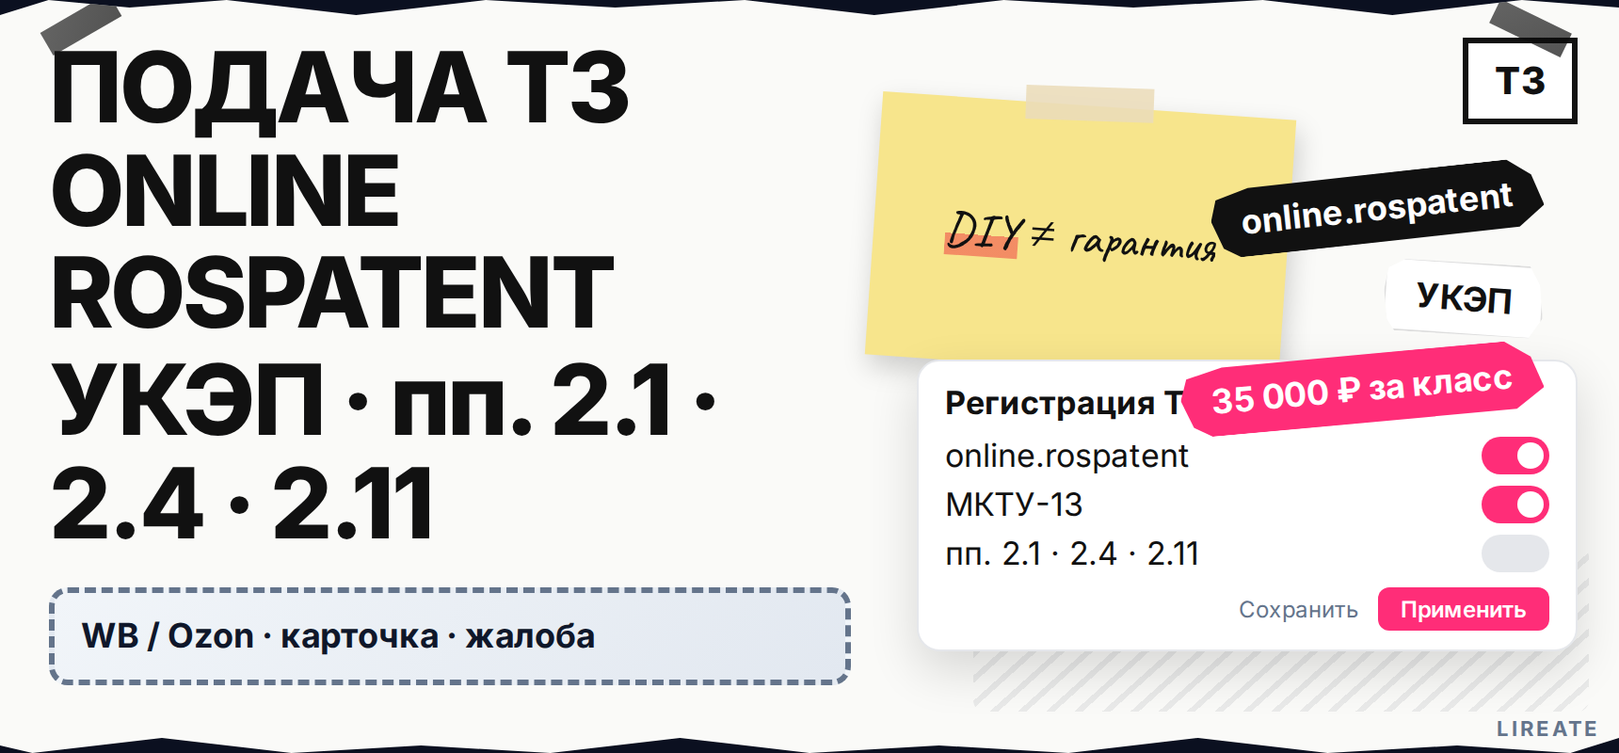
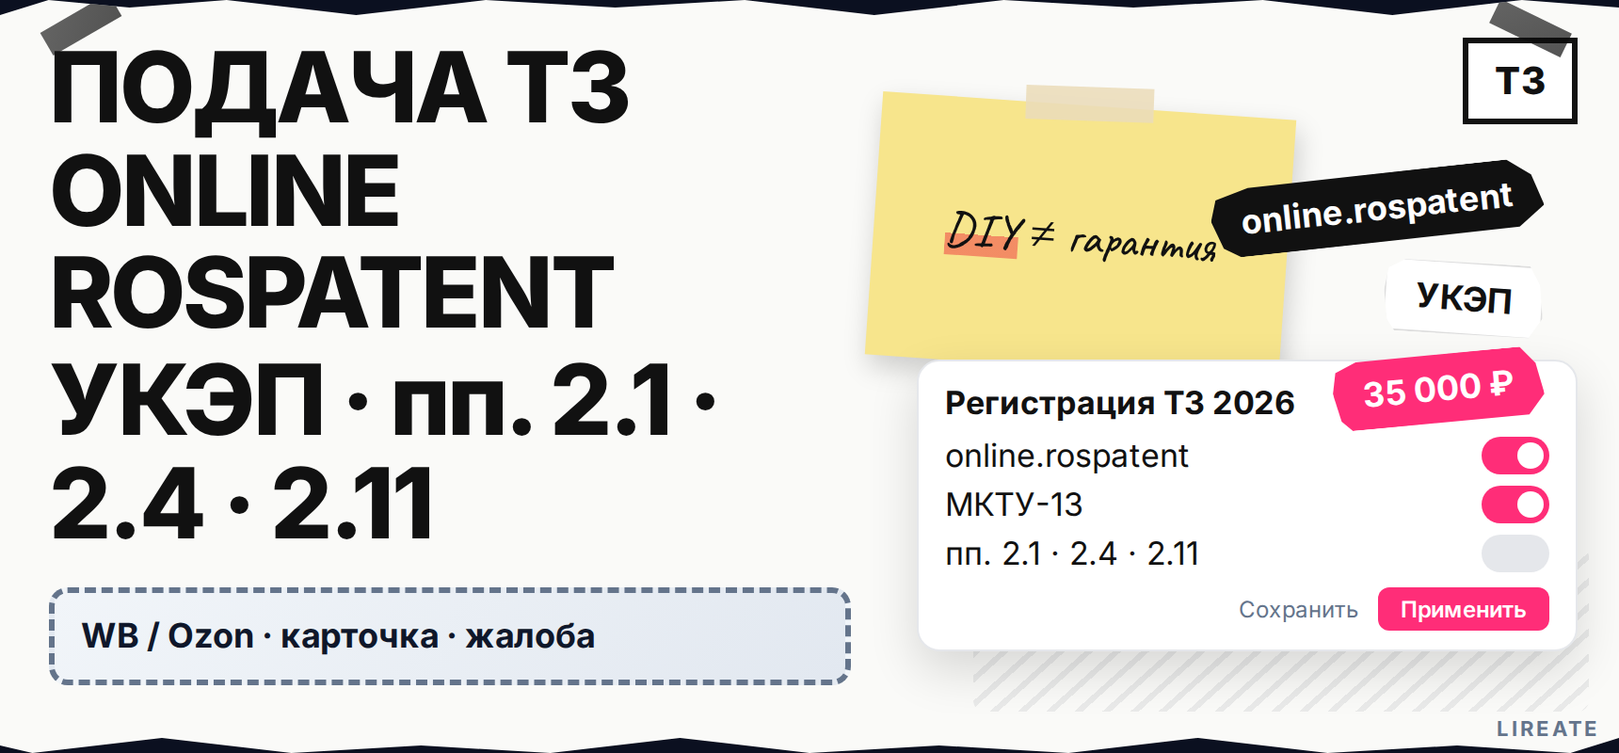
fix(blog): scrub Lxx from meta, grammar on internal links, L30 cover chip
Remove visible Lxx codes from article.meta.json SEO fields and cover copy.
Reword sentences broken by mechanical anchor replacement across PR #97 articles.
Shorten L30 cover chip to «35 000 ₽» and re-render collage variants.

Changed region(s): [[0.7087, 0.4375, 0.9552, 0.5938]]

diff --git a/memory/blog/articles/L28-obrashchenie-tretiego-litsa-po-zayavke-tovarnyy-znak-st-1493/article.html b/memory/blog/articles/L28-obrashchenie-tretiego-litsa-po-zayavke-tovarnyy-znak-st-1493/article.html
@@ -7,7 +7,7 @@
 
 <blockquote><b>TL;DR / Быстрый инсайт:</b> Запрос <b>возражение на заявку на товарный знак</b> в быту чаще означает <b>обращение по ст. 1493</b>, а не возражение в Палате по патентным спорам. <b>После публикации</b> сведений о заявке в официальном бюллетене и <b>до решения о регистрации</b> подать его может <b>любое лицо</b> (<a href="https://www.consultant.ru/document/cons_doc_LAW_64629/da1d238252af35623ade3d61ef2cd110c632dd5f/" target="_blank">ст. 1493 ГК РФ</a>). В тексте обязателен <b>регистрационный номер заявки</b> и мотивированные доводы о несоответствии обозначения <b>ст. 1477 и 1483</b> с доказательствами (<a href="https://www.consultant.ru/document/cons_doc_LAW_184868/354796ff2127929e8ba2ec52fa49605433f56508/" target="_blank">п. 50 Правил № 482</a>). Доводы <b>учитываются при экспертизе</b> (<a href="https://www.consultant.ru/document/cons_doc_LAW_64629/42114f8819a5a871c211331ca2b2d5ae1ebda818/" target="_blank">ст. 1499</a>); отдельной пошлины за обращение в <a href="https://www.klerk.ru/blogs/patent24/683176/" target="_blank">таблице пошлин</a> (п. 2.28.4 — только для ППС) нет. Срока "3 месяца" в ГК для 1493 <b>нет</b>.</blockquote>
 
-<p>Гайд только для стадии <b>до выдачи свидетельства</b>. Если знак уже зарегистрирован, окно 1493 закрыто - см. <a href="/vozrazhenie_protiv_registracii_chuzhogo_tovarnogo_znaka_sroki_i_poryadok">возражение против регистрации чужого ТЗ </a> и карту процедур в <a href="/osparivanie_tovarnogo_znaka_v_rospatente_kak_podat_vozrazhenie">оспаривании в Роспатенте </a>. Нормы сверены на 02.11.2026; это не индивидуальная юридическая консультация.</p>
+<p>Гайд только для стадии <b>до выдачи свидетельства</b>. Если знак уже зарегистрирован, окно 1493 закрыто — см. <a href="/vozrazhenie_protiv_registracii_chuzhogo_tovarnogo_znaka_sroki_i_poryadok">гайд по возражению против регистрации чужого ТЗ</a> и карту процедур в <a href="/osparivanie_tovarnogo_znaka_v_rospatente_kak_podat_vozrazhenie">материале об оспаривании в Роспатенте</a>. Нормы сверены на 02.11.2026; это не индивидуальная юридическая консультация.</p>
 
 <h2>Отличите обращение по ст. 1493 от возражения после регистрации</h2>
 <figure class="inline-collage" data-inline-style="collage-v1" data-template="bad_good" data-slot="inline_1">
@@ -50,7 +50,7 @@
   </tbody>
 </table>
 
-<p><b>Делайте:</b> проверить в реестре, есть ли уже <b>свидетельство</b> или только заявка. <b>Не делайте:</b> платить пошлину 2.28.4 и ждать заседания, если спор ещё на стадии заявки - это другой маршрут (<a href="/vozrazhenie_protiv_registracii_chuzhogo_tovarnogo_znaka_sroki_i_poryadok">возражение против чужого знака</a>).</p>
+<p><b>Делайте:</b> проверить в реестре, есть ли уже <b>свидетельство</b> или только заявка. <b>Не делайте:</b> платить пошлину 2.28.4 и ждать заседания, если спор ещё на стадии заявки - это другой маршрут — см. <a href="/vozrazhenie_protiv_registracii_chuzhogo_tovarnogo_znaka_sroki_i_poryadok">гайд по возражению против чужого знака</a>.</p>
 
 <h2>Проверьте окно подачи: публикация в бюллетене и статус заявки</h2>
 <figure class="inline-collage" data-inline-style="collage-v1" data-template="checklist" data-slot="inline_2">
@@ -126,7 +126,7 @@
   <li>нужны последствия ППС: <b>аннулирование</b> или ограничение охраны с заседанием и пошлиной <b>2.28.4</b>.</li>
 </ul>
 
-<p>После регистрации по ряду оснований действует срок <b>5 лет</b> с публикации регистрации (<a href="https://www.consultant.ru/document/cons_doc_LAW_64629/fab3ae79219dd5f5d60cb4ff67c6d9832f67bedf/" target="_blank">ст. 1512 п. 2</a>). Детали - <a href="/vozrazhenie_protiv_registracii_chuzhogo_tovarnogo_znaka_sroki_i_poryadok">возражение против чужого знака</a>, карта - <a href="/osparivanie_tovarnogo_znaka_v_rospatente_kak_podat_vozrazhenie">карта оспаривания в Роспатенте</a>.</p>
+<p>После регистрации по ряду оснований действует срок <b>5 лет</b> с публикации регистрации (<a href="https://www.consultant.ru/document/cons_doc_LAW_64629/fab3ae79219dd5f5d60cb4ff67c6d9832f67bedf/" target="_blank">ст. 1512 п. 2</a>). Детали — в <a href="/vozrazhenie_protiv_registracii_chuzhogo_tovarnogo_znaka_sroki_i_poryadok">гайде по возражению против чужого знака</a>, карта процедур — в <a href="/osparivanie_tovarnogo_znaka_v_rospatente_kak_podat_vozrazhenie">материале об оспаривании в Роспатенте</a>.</p>
 
 <p><b>Делайте:</b> оценить силу доказательств: слабый пакет на 1493 иногда лучше усилить к моменту ППС с патентным поверенным. <b>Не делайте:</b> повторно слать тот же текст "как 1493" после регистрации - нужно возражение по <a href="https://www.consultant.ru/document/cons_doc_LAW_64629/fab3ae79219dd5f5d60cb4ff67c6d9832f67bedf/" target="_blank">1512-1513</a>.</p>
 
@@ -154,7 +154,7 @@
 <p>В <b>Роспатент</b> (Бережковская наб., 30-1; почта 125993, Г-59, ГСП-3) - это <b>обращение по ст. 1493</b>, а не подача в ППС. Каналы: почта, окно, факс с оригиналом, сайт ФИПС, ЕПГУ (<a href="https://www.consultant.ru/document/cons_doc_LAW_184868/354796ff2127929e8ba2ec52fa49605433f56508/" target="_blank">п. 9 Правил № 482</a>, <a href="https://www.gosuslugi.ru/" target="_blank">ЕПГУ</a>).</p>
 
 <h3>Нужна ли госпошлина за обращение по ст. 1493?</h3>
-<p>Отдельного пункта в <a href="https://www.klerk.ru/blogs/patent24/683176/" target="_blank">таблице пошлин</a> за такое обращение нет. <b>14 000 ₽</b> по <b>2.28.4</b> - за возражение против <b>уже зарегистрированного</b> знака (см. <a href="/vozrazhenie_protiv_registracii_chuzhogo_tovarnogo_znaka_sroki_i_poryadok">возражение против чужого знака</a>).</p>
+<p>Отдельного пункта в <a href="https://www.klerk.ru/blogs/patent24/683176/" target="_blank">таблице пошлин</a> за такое обращение нет. <b>14 000 ₽</b> по <b>2.28.4</b> - за возражение против <b>уже зарегистрированного</b> знака (см. <a href="/vozrazhenie_protiv_registracii_chuzhogo_tovarnogo_znaka_sroki_i_poryadok">гайд по возражению против чужого знака</a>).</p>
 
 <h3>Кто может подать - только заинтересованное лицо?</h3>
 <p>По <b>ст. 1493</b> - <b>любое лицо</b> после публикации заявки в бюллетене. Статус заинтересованного лица важен для части оснований <b>после регистрации</b> (<a href="https://www.consultant.ru/document/cons_doc_LAW_64629/65a4af0cccfa200fb361da6e731356a369a0ed8e/" target="_blank">ст. 1513</a>).</p>
@@ -166,7 +166,7 @@
 <p>Обязанности вести переписку нет: доводы <b>учитываются при экспертизе</b> (<a href="https://www.consultant.ru/document/cons_doc_LAW_64629/42114f8819a5a871c211331ca2b2d5ae1ebda818/" target="_blank">ст. 1499</a>). Итог увидите в статусе заявки и решении о регистрации или отказе.</p>
 
 <h3>Можно ли после регистрации отправить тот же текст?</h3>
-<p>Нет. Окно 1493 закрыто - подавайте <b>возражение по ст. 1512-1513</b> с пошлиной 2.28.4 и процедурой ППС; порядок - в <a href="/vozrazhenie_protiv_registracii_chuzhogo_tovarnogo_znaka_sroki_i_poryadok">возражение против чужого знака</a>, карта - в <a href="/osparivanie_tovarnogo_znaka_v_rospatente_kak_podat_vozrazhenie">карта оспаривания в Роспатенте</a>.</p>
+<p>Нет. Окно 1493 закрыто - подавайте <b>возражение по ст. 1512-1513</b> с пошлиной 2.28.4 и процедурой ППС; порядок подачи — в <a href="/vozrazhenie_protiv_registracii_chuzhogo_tovarnogo_znaka_sroki_i_poryadok">гайде по возражению против чужого знака</a>, карта процедур — в <a href="/osparivanie_tovarnogo_znaka_v_rospatente_kak_podat_vozrazhenie">материале об оспаривании в Роспатенте</a>.</p>
 
 <h3>Чем обращение по ст. 1493 отличается от возражения в ППС?</h3>
 <p>Обращение по <b>ст. 1493</b> — только на стадии заявки; <a href="/vozrazhenie_protiv_registracii_chuzhogo_tovarnogo_znaka_sroki_i_poryadok">возражение против чужого знака</a> — обе процедуры, ППС, пошлина и срок 5 лет.</p>

diff --git a/memory/blog/articles/L43-vozrazhenie-protiv-vydachi-patenta-konkurentu/article.html b/memory/blog/articles/L43-vozrazhenie-protiv-vydachi-patenta-konkurentu/article.html
@@ -1,4 +1,4 @@
-<p>Заявка конкурента перекрывает вашу нишу устройств, а в поиске вам сулят "оппозицию на 6 месяцев". В России у третьего лица два пути: <b>замечания</b> по опубликованной заявке до решения Роспатента и <b>возражение</b> в <b>ППС</b> (Палата по патентным спорам - внутренний орган Роспатента, который разбирает споры по патентам), если номер патента уже в реестре. Вы выберете ветку, соберёте уровень техники и не перепутаете сценарий с отказом <b>вам</b> (<a href="/news?num=2&category=20">отказ в выдаче патента</a>) или с <b>товарным знаком</b> (<a href="/news?num=2&category=9">оспаривание товарного знака</a>).</p>
+<p>Заявка конкурента перекрывает вашу нишу устройств, а в поиске вам сулят "оппозицию на 6 месяцев". В России у третьего лица два пути: <b>замечания</b> по опубликованной заявке до решения Роспатента и <b>возражение</b> в <b>ППС</b> (Палата по патентным спорам - внутренний орган Роспатента, который разбирает споры по патентам), если номер патента уже в реестре. Вы выберете ветку, соберёте уровень техники и не перепутаете сценарий с отказом <b>вам</b> (см. <a href="/otkazali-v-vydache-patenta-chto-delat">статью об отказе в выдаче патента</a>) или с <b>товарным знаком</b> (см. <a href="/osparivanie_tovarnogo_znaka_v_rospatente_kak_podat_vozrazhenie">материал об оспаривании товарного знака</a>).</p>
 
 <figure class="lx-article-cover" data-cover-style="collage-v1">
   <img src="cover/cover.png" alt="Возражение против выдачи патента конкуренту: заявка, сроки и Палата по патентным спорам" loading="eager" width="860" height="400">
@@ -6,7 +6,7 @@
 
 <blockquote><b>TL;DR / Быстрый инсайт:</b> Заявка публикуется примерно через <b>18 месяцев</b> (<a href="https://www.consultant.ru/document/cons_doc_LAW_64629/5165407c76b4c777c440202b6de4a21821c2095f/" target="_blank">ст. 1385</a>). До решения по заявке любое лицо может подать <b>замечания</b> о несоответствии <a href="https://www.consultant.ru/document/cons_doc_LAW_64629/4b30fa7ca4e5733597a1bc9b2b12351cc5c430e6/" target="_blank">ст. 1350</a> (<a href="https://www.consultant.ru/document/cons_doc_LAW_64629/2ea7c0702823314f4e4d04bd1e8db5ccf4b695f6/" target="_blank">абз. после п. 5 ст. 1386</a>) без пошлины п. 1.27.3. После выдачи - <b>возражение</b> в ППС (<a href="https://www.consultant.ru/document/cons_doc_LAW_64629/d64961e488e2fc6119b55f68178ea9051a94353f/" target="_blank">ст. 1398</a>, <a href="https://patent-family.ru/journal/patenty/palata-po-patentnym-sporam/" target="_blank">п. 3.2.1</a>): <b>7 000 руб.</b> за независимый пункт, коллегия. "6 месяцев для конкурента" в РФ нет - это срок <b>ответа заявителя</b> по <a href="https://www.consultant.ru/document/cons_doc_LAW_64629/574e802022e9f2f17a7365ee06e6e2192d73516b/" target="_blank">ст. 1387</a>.</blockquote>
 
-<p>Материал для производителя и владельца продукта на Лирейт: только патент на изобретение, полезную модель или промобразец, не ПСН и не миграционный патент. Нормы на 10.11.2026; не индивидуальная консультация. Стратегию своей защиты см. в <a href="/news?num=2&category=20">способы защиты изобретения</a>.</p>
+<p>Материал для производителя и владельца продукта на Лирейт: только патент на изобретение, полезную модель или промобразец, не ПСН и не миграционный патент. Нормы на 10.11.2026; не индивидуальная консультация. Стратегию своей защиты см. в <a href="/sposoby-zashchity-izobreteniya">материале о способах защиты изобретения</a>.</p>
 
 <h2>Определите стадию: заявка или действующий патент</h2>
 <figure class="inline-collage" data-inline-style="collage-v1" data-template="bad_good" data-slot="inline_1">
@@ -133,12 +133,12 @@
     <tr>
       <td>Отказ <b>вам</b></td>
       <td>3 000 руб. × пункт (п. 1.27.1)</td>
-      <td><a href="/news?num=2&category=20">отказ в выдаче патента</a></td>
+      <td><a href="/otkazali-v-vydache-patenta-chto-delat">отказ в выдаче патента</a></td>
     </tr>
     <tr>
       <td>Чужой товарный знак</td>
       <td>14 000 руб. (п. 2.28.4)</td>
-      <td><a href="/news?num=2&category=9">оспаривание товарного знака</a></td>
+      <td><a href="/osparivanie_tovarnogo_znaka_v_rospatente_kak_podat_vozrazhenie">оспаривание товарного знака</a></td>
     </tr>
   </tbody>
 </table>
@@ -169,7 +169,7 @@
 
 <h2>Действуйте после отказа ППС или поздней выдачи</h2>
 
-<p>Если замечания не остановили выдачу - сразу переходите на ветку ППС, не теряя месяцы на переписку с конкурентом. Если коллегия отказала, оцените суд по <a href="https://www.consultant.ru/document/cons_doc_LAW_64629/d2dcd2977e647a08c6f2a264994c10c8b51bee1a/" target="_blank">ст. 1248</a> и инструменты после решения: таможенный контур для ввоза аналогов разобран в <a href="/news?num=2&category=20">таможенный запрет ввоза аналога</a>. Параллельно рассматривайте лицензию, изменение конструкции без нарушения формулы и собственную заявку на улучшение - сравнение режимов в <a href="/news?num=2&category=20">способы защиты изобретения</a>.</p>
+<p>Если замечания не остановили выдачу - сразу переходите на ветку ППС, не теряя месяцы на переписку с конкурентом. Если коллегия отказала, оцените суд по <a href="https://www.consultant.ru/document/cons_doc_LAW_64629/d2dcd2977e647a08c6f2a264994c10c8b51bee1a/" target="_blank">ст. 1248</a> и инструменты после решения: таможенный контур для ввоза аналогов — в <a href="/mozhno-li-zapretit-vvoz-analoga-zapatentovannogo-tovara">статье о таможенном запрете ввоза аналога</a>. Параллельно рассматривайте лицензию, изменение конструкции без нарушения формулы и собственную заявку на улучшение; сравнение режимов — в <a href="/sposoby-zashchity-izobreteniya">материале о способах защиты изобретения</a>.</p>
 
 <p><b>Делайте:</b> календарь с даты публикации заявки. <b>Не делайте:</b> путать атаку на выдачу с ответом на претензию о нарушении.</p>
 

diff --git a/memory/blog/articles/L33-konkurent-zaregistriroval-pohozhiy-tovarnyy-znak/article.html b/memory/blog/articles/L33-konkurent-zaregistriroval-pohozhiy-tovarnyy-znak/article.html
@@ -5,7 +5,7 @@
   <img src="cover/cover.png" alt="Как действовать, если конкурент зарегистрировал похожий товарный знак: возражение, претензия и суд" loading="eager" width="860" height="400">
 </figure>
 
-<blockquote><b>TL;DR / Быстрый инсайт:</b> При чужом <b>свидетельстве</b> идите в <b>ППС</b> по <a href="https://www.consultant.ru/document/cons_doc_LAW_64629/65a4af0cccfa200fb361da6e731356a369a0ed8e/" target="_blank">ст. 1512-1513</a> (пошлина <b>14 000 ₽</b>). По сходству (<a href="https://www.consultant.ru/document/cons_doc_LAW_64629/2e83c7a3d54808ca80d8f0b2a034caa0f7122b57/" target="_blank">п. 6 ст. 1483</a>) - <b>5 лет</b> с <b>публикации в бюллетене</b>. На витрине - <b>претензия</b>, иск по <a href="https://www.consultant.ru/document/cons_doc_LAW_64629/44bf2477089f6ece7185aaf3e37bae5ace2954cf/" target="_blank">ст. 1515</a>, <b>30 дней</b> до денежного иска. Подача - <a href="/vozrazhenie_protiv_registracii_chuzhogo_tovarnogo_znaka_sroki_i_poryadok">возражение против чужого знака</a>, карта - <a href="/osparivanie_tovarnogo_znaka_v_rospatente_kak_podat_vozrazhenie">карта оспаривания в Роспатенте</a>.</blockquote>
+<blockquote><b>TL;DR / Быстрый инсайт:</b> При чужом <b>свидетельстве</b> идите в <b>ППС</b> по <a href="https://www.consultant.ru/document/cons_doc_LAW_64629/65a4af0cccfa200fb361da6e731356a369a0ed8e/" target="_blank">ст. 1512-1513</a> (пошлина <b>14 000 ₽</b>). По сходству (<a href="https://www.consultant.ru/document/cons_doc_LAW_64629/2e83c7a3d54808ca80d8f0b2a034caa0f7122b57/" target="_blank">п. 6 ст. 1483</a>) - <b>5 лет</b> с <b>публикации в бюллетене</b>. На витрине - <b>претензия</b>, иск по <a href="https://www.consultant.ru/document/cons_doc_LAW_64629/44bf2477089f6ece7185aaf3e37bae5ace2954cf/" target="_blank">ст. 1515</a>, <b>30 дней</b> до денежного иска. Подачу — в <a href="/vozrazhenie_protiv_registracii_chuzhogo_tovarnogo_znaka_sroki_i_poryadok">гайде по возражению против чужого знака</a>, карту процедур — в <a href="/osparivanie_tovarnogo_znaka_v_rospatente_kak_podat_vozrazhenie">материале об оспаривании в Роспатенте</a>.</blockquote>
 
 <p>Материал для владельца бренда и in-house юриста на Лирейт. Нормы сверены на 05.11.2026; это маршрут действий, не индивидуальная консультация. <b>ППС</b> (Палата по патентным спорам) - коллегия Роспатента, которая по <a href="https://www.consultant.ru/document/cons_doc_LAW_64629/65a4af0cccfa200fb361da6e731356a369a0ed8e/" target="_blank">ст. 1513</a> может признать охрану недействительной и аннулировать запись в реестре. Если вы еще не подавали заявку - откройте <a href="/chto_delat_esli_tovarnyy_znak_zanyat">план при занятом обозначении</a>; здесь конкурент уже в реестре.</p>
 
@@ -84,7 +84,7 @@
   <li><b>Опишите</b> заинтересованность: ваше свидетельство, классы, реальный оборот под спорным обозначением.</li>
   <li><b>Приложите</b> сравнение знаков, перечни МКТУ, доказательства старшего права и квитанцию пошлины.</li>
   <li><b>Не дополняйте</b> возражение новыми основаниями после подачи без стратегии.</li>
-  <li><b>Отслеживайте</b> заседание; пакет - <a href="/vozrazhenie_protiv_registracii_chuzhogo_tovarnogo_znaka_sroki_i_poryadok">возражение против чужого знака</a>, схема - <a href="/osparivanie_tovarnogo_znaka_v_rospatente_kak_podat_vozrazhenie">карта оспаривания в Роспатенте</a>.</li>
+  <li><b>Отслеживайте</b> заседание: пакет документов — в <a href="/vozrazhenie_protiv_registracii_chuzhogo_tovarnogo_znaka_sroki_i_poryadok">гайде по возражению против чужого знака</a>, карта процедур — в <a href="/osparivanie_tovarnogo_znaka_v_rospatente_kak_podat_vozrazhenie">материале об оспаривании в Роспатенте</a>.</li>
 </ol>
 
 <p><b>Делайте:</b> готовить ответы на возражения правообладателя до заседания. <b>Не делайте:</b> подавать возражение в последний день пятилетки без запаса на технический сбой оплаты и доставки.</p>

diff --git a/memory/blog/articles/L21-osparivanie-tovarnogo-znaka-v-rospatente/article.html b/memory/blog/articles/L21-osparivanie-tovarnogo-znaka-v-rospatente/article.html
@@ -1,4 +1,4 @@
-<p>Конкурент подал заявку или уже получил свидетельство на имя, похожее на ваш бренд, а в поиске смешали "оспаривание", "возражение" и адрес Роспатента. Оспаривание товарного знака в Роспатенте - не один бланк: на экспертизе чужой заявки идет обращение по ст. 1493, после регистрации - возражение по ст. 1512-1513 в ППС с пошлиной 14 000 руб. Ниже вы пройдете карту стадий, основания и адрес подачи; пошаговую подачу и заседание возьмете из <b>гайда по возражению против регистрации (ссылка после публикации на сайте)</b>.</p>
+<p>Конкурент подал заявку или уже получил свидетельство на имя, похожее на ваш бренд, а в поиске смешали "оспаривание", "возражение" и адрес Роспатента. Оспаривание товарного знака в Роспатенте - не один бланк: на экспертизе чужой заявки идет обращение по ст. 1493, после регистрации - возражение по ст. 1512-1513 в ППС с пошлиной 14 000 руб. Ниже вы пройдете карту стадий, основания и адрес подачи; пошаговую подачу и заседание возьмете из <a href="/vozrazhenie_protiv_registracii_chuzhogo_tovarnogo_znaka_sroki_i_poryadok">гайда по возражению против регистрации чужого знака</a>.</p>
 
 
 <figure class="lx-article-cover" data-cover-style="collage-v1">
@@ -113,7 +113,7 @@
 
 <p><b>1493:</b> номер заявки, доводы по 1477 и 1483, без 2.28.4; экспертиза <b>учитывает</b> обращение (<a href="https://www.consultant.ru/document/cons_doc_LAW_64629/42114f8819a5a871c211331ca2b2d5ae1ebda818/" target="_blank">ст. 1499</a>), но отмена не гарантирована; результат - <b>отказ в регистрации</b>, а не аннулирование свидетельства. <b>1513:</b> номер свидетельства, 14 000 руб., регистрация возражения до 5 раб. дней, формальная проверка до 2 месяцев, коллегия ППС, отзыв правообладателя за 10 раб. дней до заседания (<a href="https://base.garant.ru/74563620/53f89421bbdaf741eb2d1ecc4ddb4c33/" target="_blank">Правила 644/261</a>); результат - <b>признание охраны недействительной</b> (полностью или частично).</p>
 
-<p>Календарь, доказательства и формулировки - в <b>материале о возражении против чужого знака</b> (пошаговый гайд, ссылка после публикации), без дубля здесь. Фраза "<a href="/obrashchenie-tretiego-litsa-po-zayavke-tovarnyy-znak-st-1493">возражение на заявку в порядке ст 1493</a>" = обращение с номером заявки в шапке. Успех по 1493 не равен автоматическому аннулированию: конкурент может доработать обозначение и подать новую заявку, если вы не закрепили права на свой бренд.</p>
+<p>Календарь, доказательства и формулировки — в <a href="/vozrazhenie_protiv_registracii_chuzhogo_tovarnogo_znaka_sroki_i_poryadok">пошаговом гайде по возражению против чужого знака</a>, без дубля здесь. Фраза «<a href="/obrashchenie-tretiego-litsa-po-zayavke-tovarnyy-znak-st-1493">возражение на заявку в порядке ст 1493</a>» — это обращение с номером заявки в шапке. Успех по 1493 не равен автоматическому аннулированию: конкурент может доработать обозначение и подать новую заявку, если вы не закрепили права на свой бренд.</p>
 
 <p><b>Делайте:</b> решить заранее, достаточно ли блокировать заявку или нужно снимать свидетельство. <b>Не делайте:</b> ждать регистрации конкурента, если уже идет 5-летний срок после публикации его регистрации.</p>
 

diff --git a/memory/blog/articles/L26-promyshlennyy-obrazec-ili-tovarnyy-znak-dizayn-tovara/article.html b/memory/blog/articles/L26-promyshlennyy-obrazec-ili-tovarnyy-znak-dizayn-tovara/article.html
@@ -41,7 +41,7 @@
 
 <p>Форму бутылки или коробки можно заявить как <b>объёмный</b> или <b>комбинированный</b> знак, если она не определяется <b>исключительно или главным образом</b> свойством или назначением товара (<a href="https://www.consultant.ru/document/cons_doc_LAW_64629/2e83c7a3d54808ca80d8f0b2a034caa0f7122b57/" target="_blank">п. 1 п. 4 ст. 1483</a>). Простая традиционная форма чаще <b>не проходит</b> экспертизу без <b>приобретённой</b> различительности (<a href="https://www.consultant.ru/document/cons_doc_LAW_304256/f594e16d612306b89c973210c4a1056aea39dd5d/" target="_blank">Руководство Роспатента, п. 2.1.7</a>). Примеры устойчивых форм в практике - <a href="https://www.garant.ru/article/1424223/" target="_blank">обзор ГАРАНТ</a> (Chupa Chups, флакон Chanel).</p>
 
-<p>Словесный и графический знак проверяйте в <a href="/proverka_tovarnogo_znaka_pered_registraciey_chek_list_po_reestram_rospatenta">чек-листе проверки перед подачей</a>; для одежды см. <a href="/registraciya-brenda-odezhdy-mktu">регистрацию бренда одежды</a> .</p>
+<p>Словесный и графический знак проверяйте в <a href="/proverka_tovarnogo_znaka_pered_registraciey_chek_list_po_reestram_rospatenta">чек-листе проверки перед подачей</a>; для одежды см. <a href="/registraciya-brenda-odezhdy-mktu">регистрацию бренда одежды</a>.</p>
 
 <p><b>Делайте:</b> честно спросить, узнает ли рынок форму <b>без</b> надписи. <b>Не делайте:</b> обещать себе регистрацию "как у всех" цилиндрических банок без доказательств различительности.</p>
 
@@ -97,7 +97,7 @@
 
 <p><b>Только форма.</b> Подавайте ПО и ищите копии по критерию общего впечатления. <b>Форма и название.</b> Две заявки; учтите <a href="https://base.garant.ru/12130018/" target="_blank">приказ № 141</a> о смежных объектах и <a href="https://www.consultant.ru/document/cons_doc_LAW_64629/c9215606f5a79df1a88066c357347f4a8d61f7c0/" target="_blank">ст. 1352 п. 5</a>.</p>
 
-<p><b>Функциональная форма.</b> Если дизайн диктует только удобство или объём - ПО и объёмный ТЗ могут не пройти; ядро решения - в <a href="/patent">защите изобретения</a> . <b>Авторское право</b> дополняет стратегию для разового рисунка, но серийный корпус закрывайте регистрацией ПО.</p>
+<p><b>Функциональная форма.</b> Если дизайн диктует только удобство или объём - ПО и объёмный ТЗ могут не пройти; ядро решения — в <a href="/patent">материале о защите изобретения</a>. <b>Авторское право</b> дополняет стратегию для разового рисунка, но серийный корпус закрывайте регистрацией ПО.</p>
 
 <p><b>Делайте:</b> записать выбранный сценарий в одностраничное memo для команды. <b>Не делайте:</b> смешивать претензию по форме со спором только по словесному знаку без нужного title.</p>
 

diff --git a/memory/blog/articles/L25-registraciya-brenda-odezhdy-mktu/article.html b/memory/blog/articles/L25-registraciya-brenda-odezhdy-mktu/article.html
@@ -97,11 +97,11 @@
 
 <h2>Отделите товарный знак от промышленного образца коллекции</h2>
 
-<p><b>Товарный знак</b> - имя и маркировка; <b>промышленный образец</b> - силуэт и орнамент изделия (<a href="http://kremlin.ru/acts/bank/24743/page/15" target="_blank">ст. 1352 ГК РФ</a>). Крой и принт коллекции без образца ТЗ не закроет — подробное сравнение ПО и объёмного знака в <a href="/promyshlennyy-obrazec-ili-tovarnyy-znak-dizayn-tovara">гайде по защите дизайна товара</a>  . <b>Делайте:</b> старт с 25 (+35 при продажах). <b>Не делайте:</b> ждать запрета копировать форму модели только через словесный знак.</p>
+<p><b>Товарный знак</b> - имя и маркировка; <b>промышленный образец</b> - силуэт и орнамент изделия (<a href="http://kremlin.ru/acts/bank/24743/page/15" target="_blank">ст. 1352 ГК РФ</a>). Крой и принт коллекции без образца ТЗ не закроет — подробное сравнение ПО и объёмного знака см. в <a href="/promyshlennyy-obrazec-ili-tovarnyy-znak-dizayn-tovara">гайде по защите дизайна товара</a>. <b>Делайте:</b> старт с 25 (+35 при продажах). <b>Не делайте:</b> ждать запрета копировать форму модели только через словесный знак.</p>
 
 <h2>Проверьте название и логотип в Поисковой платформе</h2>
 
-<p>Бесплатный поиск - <a href="https://searchplatform.rospatent.gov.ru/trademarks" target="_blank">ИС "Поисковая платформа"</a> (работает с 11.12.2023). Отметьте классы <b>25</b> и <b>35</b>, при необходимости <b>24</b>. Учитывайте <a href="https://www.consultant.ru/document/cons_doc_LAW_64629/2e83c7a3d54808ca80d8f0b2a034caa0f7122b57/" target="_blank">п. 6 ст. 1483 ГК РФ</a>: отказ возможен при сходстве с ранним знаком на однородных товарах. Углублённый порядок - в <a href="/proverka_tovarnogo_znaka_pered_registraciey_chek_list_po_reestram_rospatenta">чек-листе проверки товарного знака</a>.</p>
+<p>Бесплатный поиск - <a href="https://searchplatform.rospatent.gov.ru/trademarks" target="_blank">ИС "Поисковая платформа"</a> (работает с 11.12.2023). Отметьте классы <b>25</b> и <b>35</b>, при необходимости <b>24</b>. Учитывайте <a href="https://www.consultant.ru/document/cons_doc_LAW_64629/2e83c7a3d54808ca80d8f0b2a034caa0f7122b57/" target="_blank">п. 6 ст. 1483 ГК РФ</a>: отказ возможен при сходстве с ранним знаком на однородных товарах. Подробнее — в <a href="/proverka_tovarnogo_znaka_pered_registraciey_chek_list_po_reestram_rospatenta">чек-листе проверки товарного знака</a>.</p>
 
 <p><b>Делайте:</b> искать не только точное совпадение, но и созвучные варианты на кириллице и латинице. <b>Не делайте:</b> полагаться только на "свободно в каталоге WB" - реестр Роспатента важнее для будущего свидетельства.</p>
 

diff --git a/memory/blog/articles/L30-kak-zaregistrirovat-tovarnyy-znak-samostoyatelno-2026/article.html b/memory/blog/articles/L30-kak-zaregistrirovat-tovarnyy-znak-samostoyatelno-2026/article.html
@@ -195,7 +195,7 @@
 <p>В карточке услуги указано <b>18 месяцев и 2 недели</b> на полный цикл при стандартном ходе; формальная экспертиза - до 1 месяца, по существу - до 12 месяцев. Срок растягивается при уведомлениях и доводах.</p>
 
 <h3>Что делать, если пришло уведомление от Роспатента?</h3>
-<p>Подготовьте ответ с доводами и приложениями и направьте в течение <b>6 месяцев</b> с даты уведомления. Пошаговый разбор оснований - в <a href="/otnositelnyie_osnovaniya_otkaza_v_registracii_tz_otvet_ekspertize/">материале об отказе и ответе экспертизе</a>, не пропускайте срок.</p>
+<p>Подготовьте ответ с доводами и приложениями и направьте в течение <b>6 месяцев</b> с даты уведомления. Пошаговый разбор оснований — в <a href="/otnositelnyie_osnovaniya_otkaza_v_registracii_tz_otvet_ekspertize/">материале об ответе экспертизе при отказе</a>; не пропускайте срок.</p>
 
 <h3>Нужно ли отдельно регистрировать логотип и название?</h3>
 <p>Если нужна охрана и слова, и рисунка как разных объектов - это <b>две заявки</b> (<a href="https://www.consultant.ru/document/cons_doc_LAW_64629/ba40f188a9dca425520a1e3a935f95845df06ca8/" target="_blank">п. 2 ст. 1492</a>). Комбинированный знак в одной заявке защищает сочетание, а не автоматически каждый элемент отдельно.</p>

diff --git a/memory/blog/articles/L23-zashchita-prav-na-bazu-dannyh/article.html b/memory/blog/articles/L23-zashchita-prav-na-bazu-dannyh/article.html
@@ -43,7 +43,7 @@
     <tr>
       <td><b>Коммерческая тайна, 98-ФЗ</b></td>
       <td>Конфиденциальные сведения при режиме ст. 10</td>
-      <td>Разглашение алгоритма сбора или закупочных условий (<b>гайд по режиму коммерческой тайны — ссылка после публикации на сайте</b>)</td>
+      <td>Разглашение алгоритма сбора или закупочных условий (см. <a href="/rezhim-kommercheskoj-tajny-kak-vvesti">гайд по режиму коммерческой тайны</a>)</td>
     </tr>
   </tbody>
 </table>
@@ -110,7 +110,7 @@
 
 <h2>Дополните режимом коммерческой тайны, где уместно</h2>
 
-<p>Алгоритмы сбора и неопубликованные метрики закрывают <b>98-ФЗ</b> параллельно с правом на БД (<b>гайд по режиму коммерческой тайны — ссылка после публикации на сайте</b>). <b>Делайте:</b> комбинировать КТ и ст. 1334. <b>Не делайте:</b> объявлять весь сайт тайной без перечня.</p>
+<p>Алгоритмы сбора и неопубликованные метрики закрывают <b>98-ФЗ</b> параллельно с правом на БД (подробнее — в <a href="/rezhim-kommercheskoj-tajny-kak-vvesti">гайде по режиму коммерческой тайны</a>). <b>Делайте:</b> комбинировать КТ и ст. 1334. <b>Не делайте:</b> объявлять весь сайт тайной без перечня.</p>
 
 <h2>Что сделать дальше</h2>
 

diff --git a/memory/blog/articles/L30-kak-zaregistrirovat-tovarnyy-znak-samostoyatelno-2026/cover/cover-template.html b/memory/blog/articles/L30-kak-zaregistrirovat-tovarnyy-znak-samostoyatelno-2026/cover/cover-template.html
@@ -187,7 +187,7 @@ html, body { margin:0; width:860px; height:400px; overflow:hidden; }
       <svg class="cover-arrow" data-layout-slot="slot-arrow" viewBox="0 0 100 36" aria-hidden="true"><path d="M8 28 C42 8, 58 30, 88 12" stroke="#111" fill="none" stroke-width="2.2"/><path d="M80 6l12 8-14 3" stroke="#111" fill="none" stroke-width="2"/></svg>
       <div class="slot-badge" data-layout-slot="slot-badge">ТЗ</div>
       <div class="cover-sticky hand" data-layout-slot="slot-sticky" style="background:#f7e58c"><div class="sticky-tape-beige"></div><div class="sticky-text"><span class="sticky-ul">DIY</span> ≠ гарантия</div></div>
-      <div class="slot-chips" data-layout-slot="slot-chips"><div class="torn-chip black chip-tilt" style="--rot:-6deg">online.rospatent</div><div class="torn-chip white chip-tilt" style="--rot:4deg">УКЭП</div><div class="torn-chip pink chip-tilt" style="--rot:-5deg">35 000 ₽ за класс</div></div>
+      <div class="slot-chips" data-layout-slot="slot-chips"><div class="torn-chip black chip-tilt" style="--rot:-6deg">online.rospatent</div><div class="torn-chip white chip-tilt" style="--rot:4deg">УКЭП</div><div class="torn-chip pink chip-tilt" style="--rot:-5deg">35 000 ₽</div></div>
       <div class="slot-ui" data-layout-slot="slot-ui-card">
         <h4>Регистрация ТЗ 2026</h4><div class="ui-row"><span>online.rospatent</span><span class="toggle on"></span></div><div class="ui-row"><span>МКТУ-13</span><span class="toggle on"></span></div><div class="ui-row"><span>пп. 2.1 · 2.4 · 2.11</span><span class="toggle "></span></div>
         <div class="ui-foot"><span class="muted">Сохранить</span><span class="apply">Применить</span></div>

diff --git a/memory/blog/articles/L39-dorabotka-logotipa-pered-registraciey-tovarnogo-znaka/article.html b/memory/blog/articles/L39-dorabotka-logotipa-pered-registraciey-tovarnogo-znaka/article.html
@@ -134,7 +134,7 @@
 
 <h2>Выберите маршрут после предварительного отказа</h2>
 
-<p>На уведомление - <b>6 месяцев</b> со дня <b>направления</b> (<a href="https://www.consultant.ru/document/cons_doc_LAW_64629/42114f8819a5a871c211331ca2b2d5ae1ebda818/" target="_blank">ст. 1499</a>). Правка макета дополняет ответ по <a href="/otnositelnyie_osnovaniya_otkaza_v_registracii_tz_otvet_ekspertize">ответ экспертизе при отказе</a>; новая концепция - чаще новая заявка. Предоценка ФИПС - от <b>46 200 руб.</b> за класс (fips.ru) до полной пошлины.</p>
+<p>На уведомление - <b>6 месяцев</b> со дня <b>направления</b> (<a href="https://www.consultant.ru/document/cons_doc_LAW_64629/42114f8819a5a871c211331ca2b2d5ae1ebda818/" target="_blank">ст. 1499</a>). Правка макета дополняет <a href="/otnositelnyie_osnovaniya_otkaza_v_registracii_tz_otvet_ekspertize">ответ экспертизе при относительном отказе</a>; новая концепция - чаще новая заявка. Предоценка ФИПС - от <b>46 200 руб.</b> за класс (fips.ru) до полной пошлины.</p>
 
 <ol>
   <li>Сопоставьте пункты уведомления с таблицей мотивов выше.</li>

diff --git a/memory/blog/articles/L27-narushenie-tovarnogo-znaka-na-marketpleyse/article.html b/memory/blog/articles/L27-narushenie-tovarnogo-znaka-na-marketpleyse/article.html
@@ -161,4 +161,4 @@
 <p>Правообладатель вправе выбрать: от <b>10 000 до 10 000 000 ₽</b> за каждое нарушение, двукратную стоимость контрафакта или двукратную стоимость права использования (<a href="https://www.consultant.ru/document/cons_doc_LAW_64629/44bf2477089f6ece7185aaf3e37bae5ace2954cf/" target="_blank">п. 4 ст. 1515</a>). Обоснуйте сумму фактами, суд может снизить или изменить размер.</p>
 
 <h3>Что делать, если на вас подали ложную жалобу?</h3>
-<p>Откройте <a href="/otvet_na_pretenziyu_pravoobladatelya_tovarnogo_znaka_poryadok_srok_30_dney_i_obrazec/">ответ на претензию правообладателя</a>: ответ в срок WB (~10 дней) и на претензию (~30 дней), лицензия или доказательства законного использования.</p>
+<p>Откройте <a href="/otvet_na_pretenziyu_pravoobladatelya_tovarnogo_znaka_poryadok_srok_30_dney_i_obrazec/">гайд по ответу на претензию правообладателя</a>: ответ в срок WB (~10 дней) и на претензию (~30 дней), лицензия или доказательства законного использования.</p>

diff --git a/memory/blog/articles/L09-upominanie-chuzhogo-brenda-v-reklame/article.html b/memory/blog/articles/L09-upominanie-chuzhogo-brenda-v-reklame/article.html
@@ -76,7 +76,7 @@
 </table>
 
 <blockquote>
-  <b>Сквозная схема:</b> идея креатива → проверка знака в реестре → строка матрицы → правки макета → маркировка интернет-рекламы по действующим правилам → при претензии - <a href="/news?num=2&category=9">ответ по порядку ответа на претензию</a>
+  <b>Сквозная схема:</b> идея креатива → проверка знака в реестре → строка матрицы → правки макета → маркировка интернет-рекламы по действующим правилам → при претензии — <a href="/otvet_na_pretenziyu_pravoobladatelya_tovarnogo_znaka_poryadok_srok_30_dney_i_obrazec">порядок ответа на претензию</a>
 </blockquote>
 
 <h2>Настройте корректное сравнение в рекламе</h2>
